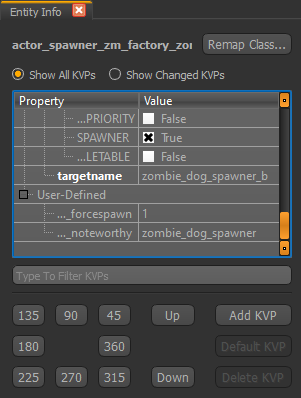
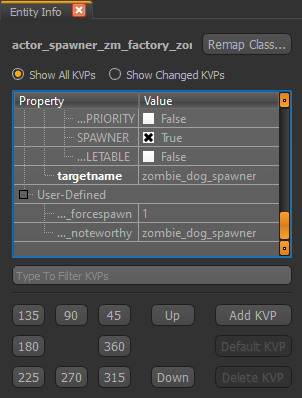
Started Mystery Box Tutorial
Still need to add the customizing steps for the mystery box.

diff --git a/Modding/Black Ops III/index.html b/Modding/Black Ops III/index.html
@@ -516,7 +516,7 @@
             <div class="center" style="max-width: 600px;"><img src="../../images/Modding/BO3%20Mod%20Tools/DogSpawner01.png" alt="... Image" onclick="displayModal(this)"></div>
             <li>Drag one onto the map, placing it where the player won't accidentally run into it (collision issues).</li>
             <div class="center" style="max-width: 400px;"><img src="../../images/Modding/BO3%20Mod%20Tools/DogSpawner02.png" alt="... Image" onclick="displayModal(this)"></div>
-            <li>Select the dog and change the <b>Entity Info</b>.</li><br>
+            <li>Select the dog and change the <b>Entity Info</b>. You can do the same to the default spawn point added when you made the map (targetname should be unique).</li><br>
             <p class="code-sl" style="padding: 5px 10px;">
                 <b>Property</b>: <sql>ALTERONSPAWN</sql><br>
                 <b>Value</b>: <sql>False</sql>
@@ -527,7 +527,7 @@
             </p><br>
             <p class="code-sl" style="padding: 5px 10px;">
                 <b>Property</b>: <sql>targetname</sql><br>
-                <b>Value</b>: <sql>zombie_dog_spawner_b</sql>
+                <b>Value</b>: <sql>zombie_dog_spawner</sql>
             </p>
             <li>Click <b>Add KVP</b></li><br>
             <p class="code-sl" style="padding: 5px 10px;">
@@ -569,6 +569,15 @@
                 <b>Value</b>: <sql>dog_location</sql>
             </p>
             <div class="center" style="max-width: 330px;"><img src="../../images/Modding/BO3%20Mod%20Tools/DogSpawner06.png" alt="... Image" onclick="displayModal(this)"></div>
+            <li>Dogs will now spawn when they should.</li>
+            <div class="imageRow">
+            <div class="imageColumn">
+                <img src="../../images/Modding/BO3%20Mod%20Tools/DogSpawning02.png" alt="... Image" onclick="displayModal(this)">
+            </div>
+            <div class="imageColumn">
+                <img src="../../images/Modding/BO3%20Mod%20Tools/DogSpawning01.png" alt="... Image" onclick="displayModal(this)">
+            </div>
+            </div>
         </ol>
     </div>
     &nbsp;
@@ -762,11 +771,11 @@
                 <img src="../../images/Modding/BO3%20Mod%20Tools/TestDoorRight04.png" alt="... Image" onclick="displayModal(this)">
             </div>
             </div>
-            <li>Rotate the door in the <b>Game</b> view until you find a rotation that fits your needs. For the door on our right: <b>{0, 150, 0}</b> looks good.</li>
+            <li>Rotate the door in the <b>Game</b> view until you find a rotation that fits your needs. For the door on our right: <b>{0, 120, 0}</b> looks good.</li>
             <li>Click <b>Add KVP</b></li><br>
             <p class="code-sl" style="padding: 5px 10px;">
                 <b>Property / Key</b>: <sql>script_angles</sql><br>
-                <b>Value</b>: <sql>0 150 0</sql>
+                <b>Value</b>: <sql>0 120 0</sql>
             </p>
             <div class="center" style="padding: 10px; max-width: 300px;"><img src="../../images/Modding/BO3%20Mod%20Tools/DoorRotation02.png" alt="... Image" onclick="displayModal(this)"></div>
             <li>Follow the same steps for the door on the left. This time <b>{0, 240, 0}</b> will work.</li><br>
@@ -781,19 +790,50 @@
     <div class="innerContent">
         <h2>Mystery Box</h2>
         <p>Fixing the Mystery Box and adding multiple locations.</p>
+        <p>Since Treyarch did not include box location prefabs with the mod tools, we need to add some files to our <b>zm_core</b> folder.</p>
+        <p class="code-sl" style="padding: 5px 10px;">
+            <b>D:\Steam\steamapps\common\Call of Duty Black Ops III\map_source\_prefabs\zm\zm_core</b>
+        </p>
+        <a href="../../downloads/Modding/BO3%20Mod%20Tools/box_01.map" download>box_01.map</a><br>
+        <a href="../../downloads/Modding/BO3%20Mod%20Tools/box_02.map" download>box_02.map</a><br>
+        <a href="../../downloads/Modding/BO3%20Mod%20Tools/box_03.map" download>box_03.map</a><br>
+        <a href="../../downloads/Modding/BO3%20Mod%20Tools/box_start.map" download>box_start.map</a><br>
         <ol>
-            <li>Since Treyarch did not include box location prefabs with the mod tools, we need to add some files to our <b>zm_core</b> folder.</li><br>
+            <li>The first step is to download some of the assets from the above list. <b>box_start.map</b> is a prefab from the <b>giant</b> map and will be where the box spawns first on our map.</li>
+            <li>Place the new files in your <b>zm_core</b> folder:</li><br>
             <p class="code-sl" style="padding: 5px 10px;">
                 <b>D:\Steam\steamapps\common\Call of Duty Black Ops III\map_source\_prefabs\zm\zm_core</b>
             </p>
-            <a href="../../downloads/Modding/BO3%20Mod%20Tools/box_01.map" download>box_01.map</a><br>
-            <a href="../../downloads/Modding/BO3%20Mod%20Tools/box_02.map" download>box_02.map</a><br>
-            <a href="../../downloads/Modding/BO3%20Mod%20Tools/box_03.map" download>box_03.map</a><br>
-            <a href="../../downloads/Modding/BO3%20Mod%20Tools/box_start.map" download>box_start.map</a>
-            <li>You can make as many more box locations as you want by just changing the KVPs on the prefabs.</li>
-            <li>Shift + D can also be used to rotate an entity.</li>
-            <li>Making more clips to go with box locations will be made with the same height already applied.</li>
+            <li><b>Right Click</b> in the <b>Game</b> or <b>Grid</b> view and go to <b>Misc &gt; prefab</b>.</li>
+            <li>Open the <b>zm</b> folder and then open the <b>zm_core</b> folder.</li>
+            <li>The added files should be near the top of this list. Click on the <b>box_start.map</b> file and hit <b>Open</b>.</li>
+            <div class="center" style="padding: 10px; max-width: 500px;"><img src="../../images/Modding/BO3%20Mod%20Tools/box_start.png" alt="... Image" onclick="displayModal(this)"></div>
+            <li>Move the prefab to the location you want the box to spawn. Line it up with the floor and wall (or debris). The arrow should be pointing away from the wall. You can also use <b>Shift + D</b> to rotate an entity in 90&#176; increments.</li>
+            <div class="imageRow">
+            <div class="imageColumn">
+                <img src="../../images/Modding/BO3%20Mod%20Tools/MysteryBox01.png" alt="... Image" onclick="displayModal(this)">
+            </div>
+            <div class="imageColumn">
+                <img src="../../images/Modding/BO3%20Mod%20Tools/MysteryBox02.png" alt="... Image" onclick="displayModal(this)">
+            </div>
+            </div>
+            <li>Add a <b>clip</b> that will surround the box and prevent players from standing on top of it like so:<br>(Remember that <b>clip</b> is in the <b>Textures Pane</b>)</li>
+            <div class="center" style="padding: 10px; max-width: 400px;"><img src="../../images/Modding/BO3%20Mod%20Tools/MysteryBox03.png" alt="... Image" onclick="displayModal(this)"></div>
+            <li><b>Note</b>: After setting the height of our first clip, the subsequent clips will default to the same height when you draw them on the grid. This effect lasts until the next time you open the software.</li>
+            <li>Convert the <b>clip</b> to a <b>Brushmodel</b>.</li>
+            <div class="center" style="padding: 10px; max-width: 600px;"><img src="../../images/Modding/BO3%20Mod%20Tools/MysteryBox04.png" alt="... Image" onclick="displayModal(this)"></div>
+            <li>Here is a view of our new mystery box from inside the game:</li>
+            <div class="center" style="padding: 10px; max-width: 500px;"><img src="../../images/Modding/BO3%20Mod%20Tools/MysteryBoxInGame.png" alt="... Image" onclick="displayModal(this)"></div>
         </ol>
+        <h2>Customizing the Mystery Box</h2>
+        <p>We can modify the prefab for the Mystery Box and even make our own versions and save them as prefabs.</p>
+        <p>I would like the starting Mystery Box to match the default box location for our map (The broken one). I am providing the new prefab file created in this turorial here: <a href="../../downloads/Modding/BO3%20Mod%20Tools/box_start_tutorial.map" download>box_start_tutorial.map</a></p>
+        <ol>
+            <li></li>
+            <li></li>
+            <li></li>
+            <li></li>
+        </ol>    
     </div>
     &nbsp;
     <button class="collapsible">Perks</button>
